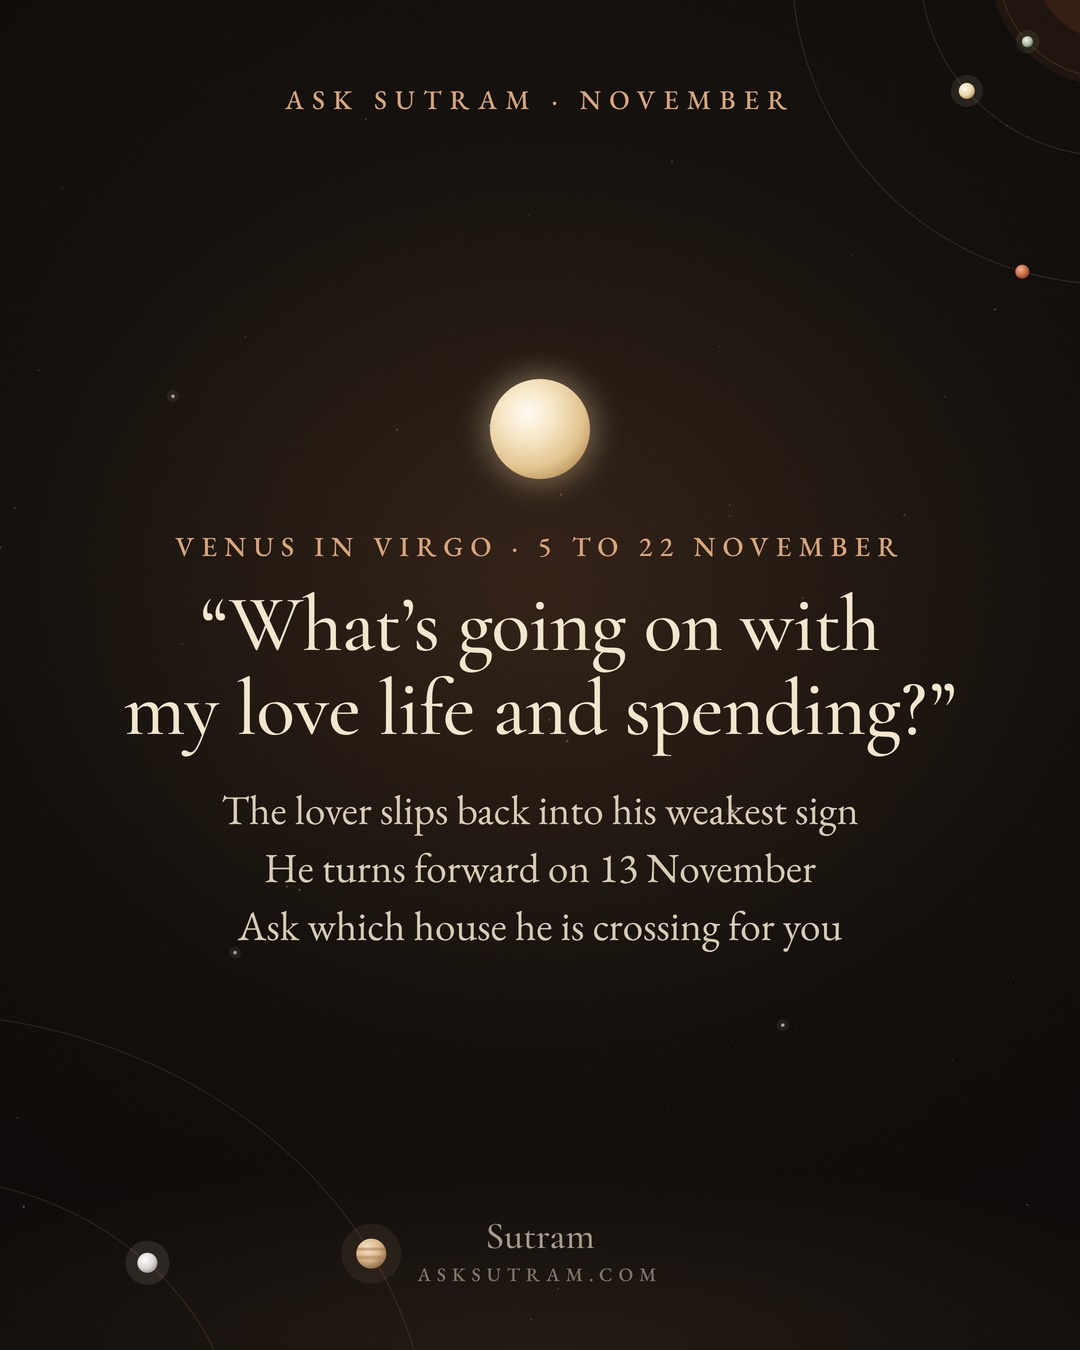
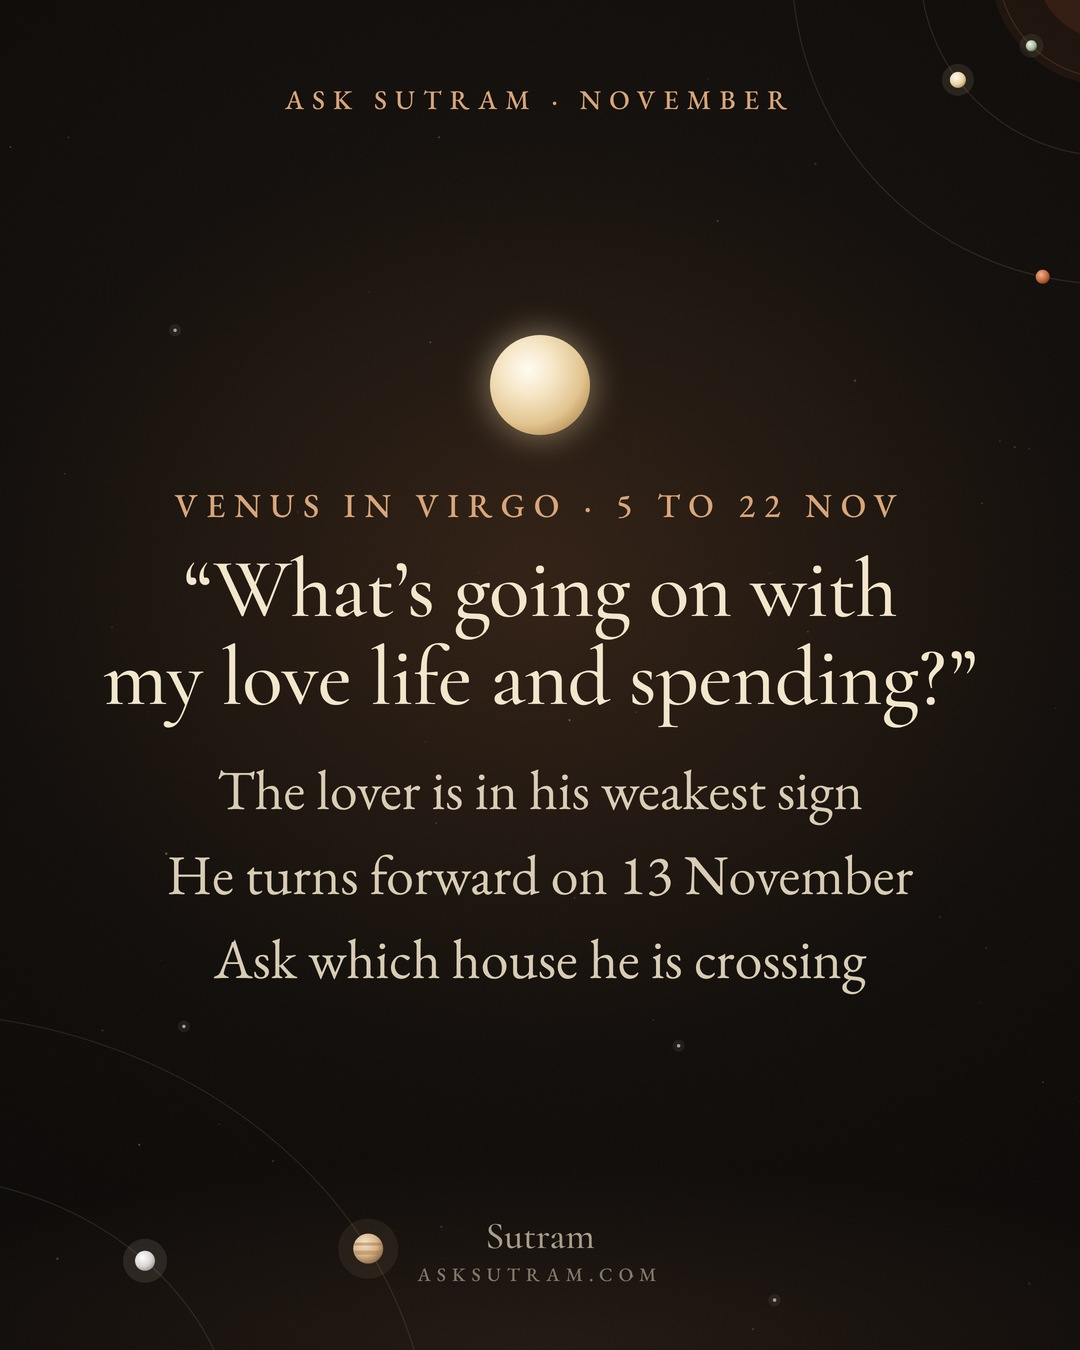
Bigger slide text everywhere (TXT 1.4, body 46, labels 30); Ask Sutram November v4
Claude-Session: https://claude.ai/code/session_01X9pp4MPGSrEYuhTBtz7gpY

diff --git a/tools/render.py b/tools/render.py
@@ -16,7 +16,7 @@ FONTS=''.join(f'<link rel="stylesheet" href="{NM}{f}">' for f in [
  'eb-garamond/400.css','eb-garamond/500.css','eb-garamond/400-italic.css'])
 CREAM='#F2E6CC'; AMBER='#E09460'; GOLD='#D9A57A'; BG='#0B0806'
 
-TXT=1.15   # v4 (29 Oct): text about 15% larger, Sumant found v3 hard to read on a phone
+TXT=1.4   # v5 (2 Nov): Sumant, again: text too small. Body and labels about 22% larger; never smaller than this
 
 def css(s):
     f=lambda px: f'{px*s:.1f}px'
@@ -35,13 +35,13 @@ radial-gradient(125% 95% at 50% 38%,#17110C 0%,#0B0806 55%,#050403 100%);}}
 .body{{position:absolute;left:84px;right:84px;top:160px;bottom:196px;display:flex;flex-direction:column;align-items:center;justify-content:center}}
 .t{{font-family:'Cormorant Garamond';font-weight:500;color:{CREAM};letter-spacing:-.01em}}
 .ti{{font-family:'Cormorant Garamond';font-style:italic;font-weight:500;color:{AMBER}}}
-.p{{font:400 {f(38)}/1.4 'EB Garamond';color:rgba(242,230,204,.88)}}
-.pi{{font:400 italic {f(36)}/1.38 'EB Garamond';color:rgba(242,230,204,.86)}}
-.src{{font:500 {f(24)}/1.3 'EB Garamond';letter-spacing:.16em;text-transform:uppercase;color:rgba(242,230,204,.64)}}
-.lab{{font:500 {f(25)}/1 'EB Garamond';letter-spacing:.26em;text-transform:uppercase;color:{GOLD}}}
+.p{{font:400 {f(46)}/1.4 'EB Garamond';color:rgba(242,230,204,.88)}}
+.pi{{font:400 italic {f(44)}/1.38 'EB Garamond';color:rgba(242,230,204,.86)}}
+.src{{font:500 {f(30)}/1.3 'EB Garamond';letter-spacing:.16em;text-transform:uppercase;color:rgba(242,230,204,.64)}}
+.lab{{font:500 {f(30)}/1 'EB Garamond';letter-spacing:.26em;text-transform:uppercase;color:{GOLD}}}
 .rule{{height:1px;width:110px;background:rgba(217,165,122,.55);margin:{f(32)} auto}}
 .h1{{font-size:{f(132)};line-height:.98}} .h2{{font-size:{f(106)};line-height:1}} .h3{{font-size:{f(80)};line-height:1.05}}
-.sub{{font-size:{f(54)};line-height:1.22}}
+.sub{{font-size:{f(62)};line-height:1.22}}
 .row{{display:flex;justify-content:space-between;align-items:baseline;padding:{f(12)} 0;border-bottom:1px solid rgba(217,165,122,.2);text-align:left;gap:16px}}
 .grid2{{display:grid;grid-template-columns:1fr 1fr;column-gap:56px;width:100%}}
 '''
